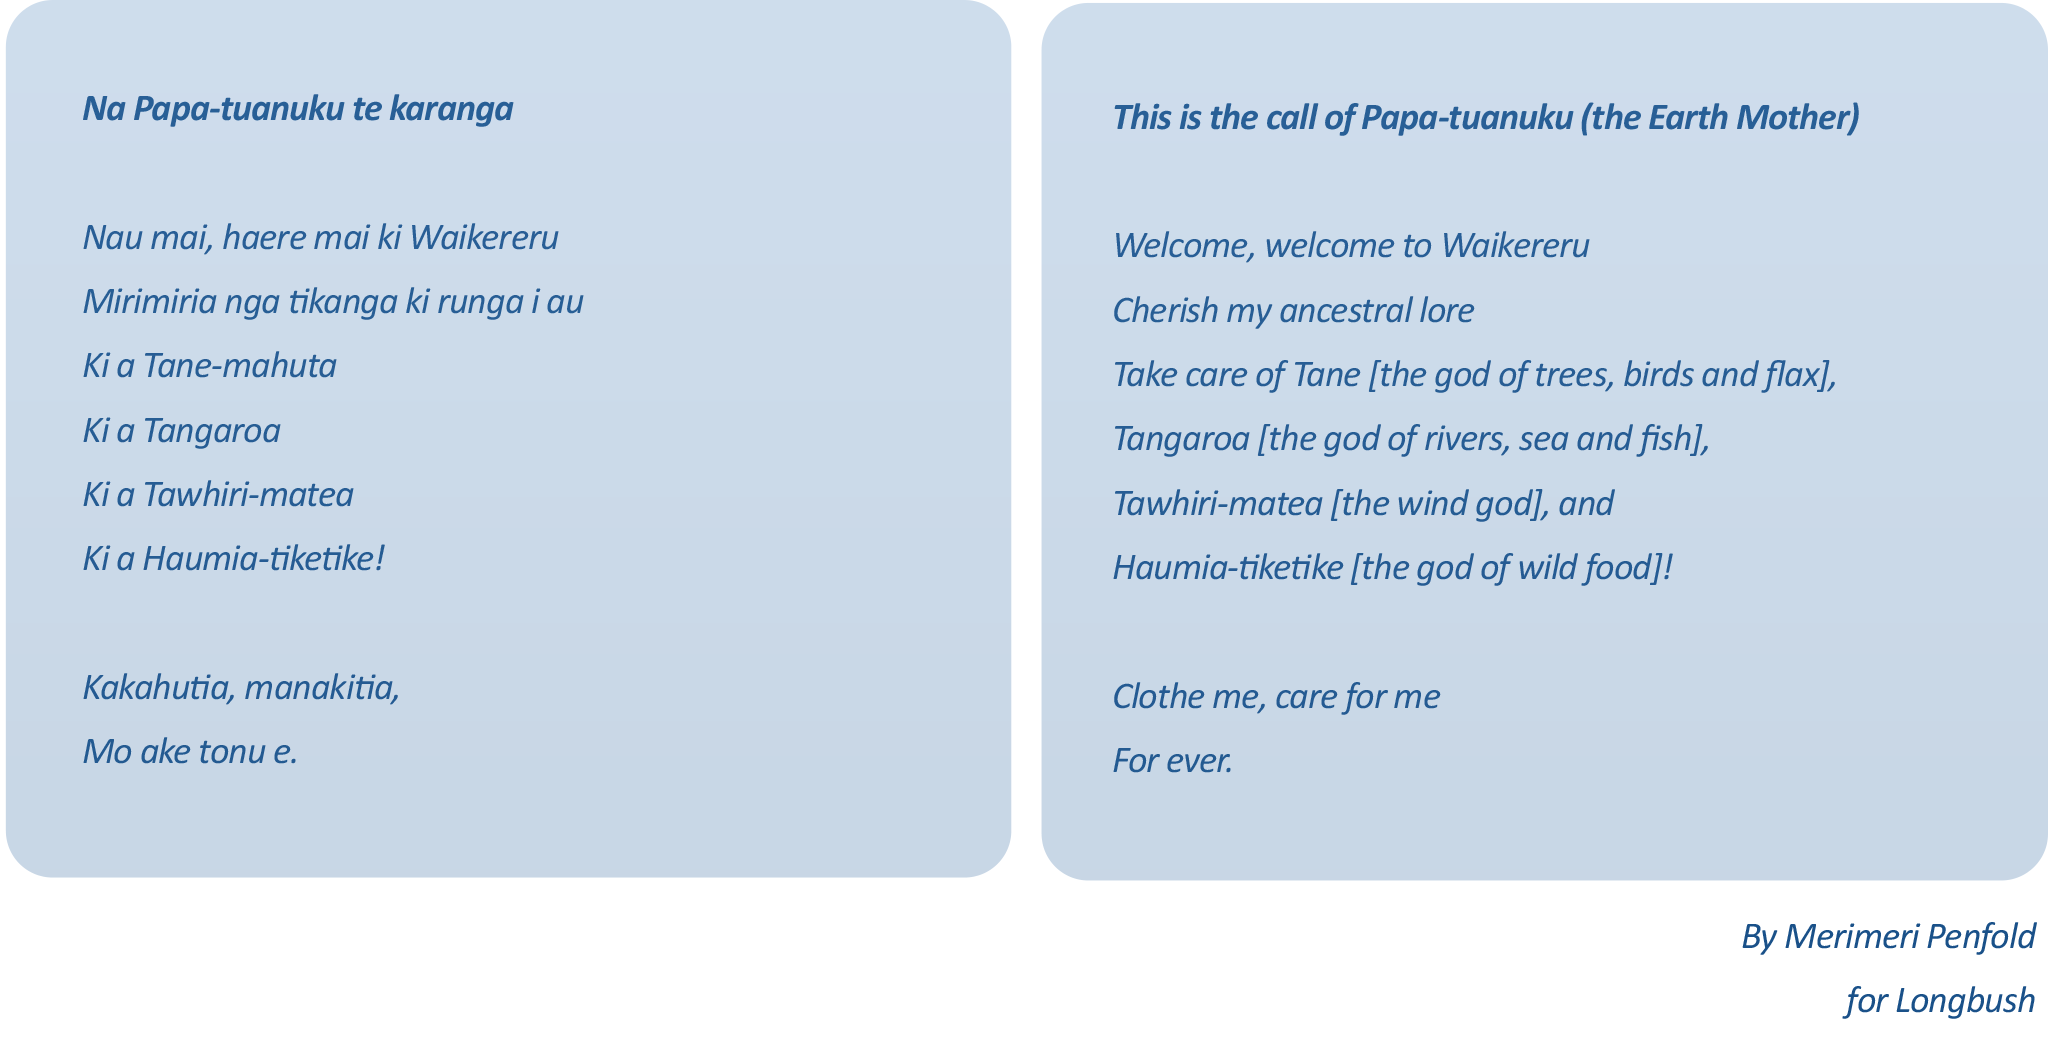
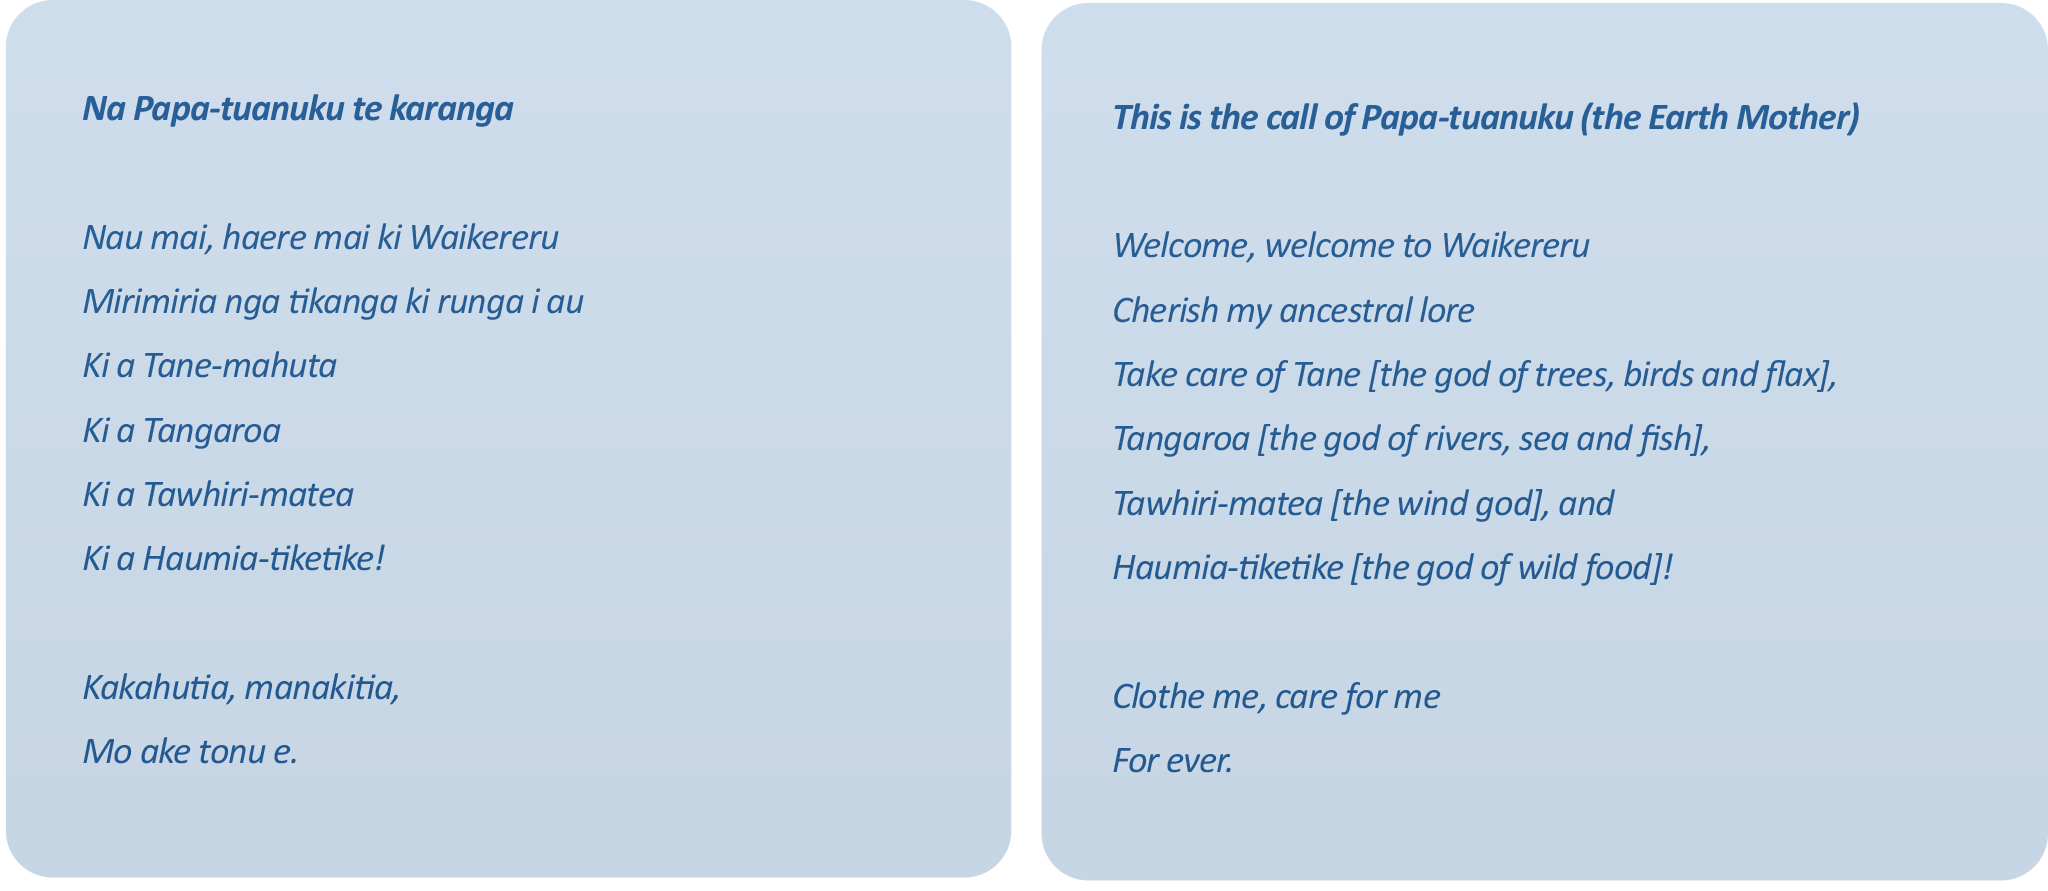
Adding Meri Meri's karanga to the home page.

diff --git a/index.md b/index.md
@@ -13,7 +13,7 @@ From high hill ridges to the west, three streams tumble down steep valleys and a
 
 Waikereru Ecosanctuary is a fine example of ecological restoration in the Tai Rawhiti district, whose biodiversity is at extreme risk from land clearance, erosion and introduced plants and animals.  Here's a chant for Waikereru, composed by Merimeri Penfold:
 
-{% include figure image_path="/assets/images/home/karanga-meri-meri.png" %}
+{% include figure image_path="/assets/images/home/karanga-meri-meri.png" caption="By Merimeri Penfold, for Longbush" %}
 
 ## Nau mai, haere mai!
 
